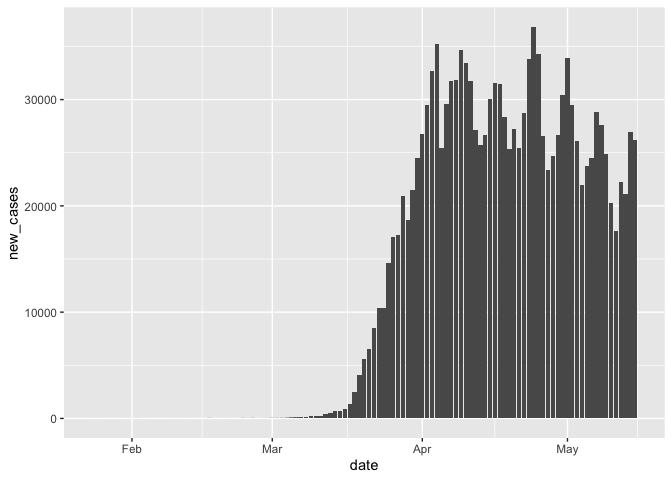
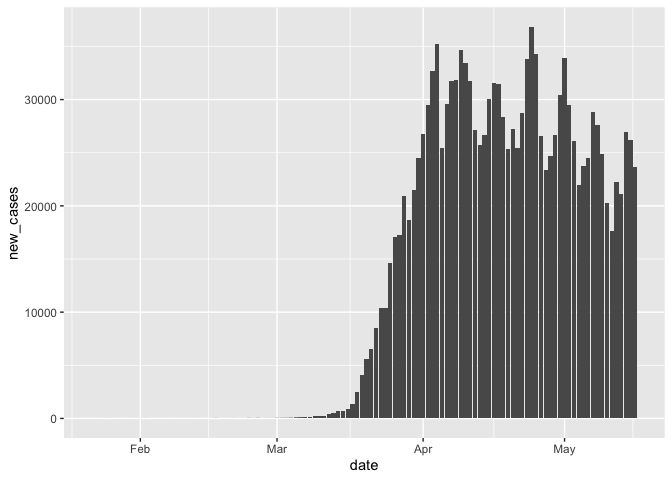
update

diff --git a/nyt-covid.md b/nyt-covid.md
@@ -1,7 +1,7 @@
 NYT Covid cases
 ================
 Your name
-2020-05-16
+2020-05-17
 
   - [States](#states)
       - [Glimpse and summary](#glimpse-and-summary)
@@ -54,17 +54,7 @@ file_population <- "data/populations.csv"
 #   )
 counties <-
   url_counties %>% 
-  read_csv(
-    col_types =
-      cols(
-        date = col_date(format = ""),
-        county = col_character(),
-        state = col_character(),
-        fips = col_integer(),
-        cases = col_double(),
-        deaths = col_double()
-      )
-  )
+  read_csv()
 
 # col_types = 
 #   cols(
@@ -76,16 +66,7 @@ counties <-
 #   )
 states <-
   url_states %>% 
-  read_csv(
-    col_types = 
-      cols(
-        date = col_date(format = ""),
-        state = col_character(),
-        fips = col_integer(),
-        cases = col_double(),
-        deaths = col_double()
-      )
-  )
+  read_csv()
 
 # col_types =
 #   cols(
@@ -95,14 +76,7 @@ states <-
 #   )
 population <-
   file_population %>% 
-  read_csv(
-    col_types =
-      cols(
-        region = col_character(),
-        fips = col_integer(),
-        population = col_double()
-      )
-  )
+  read_csv()
 ```
 
 ## States
@@ -159,11 +133,11 @@ states %>%
     ## # A tibble: 5 x 2
     ##   state                        n
     ##   <chr>                    <int>
-    ## 1 District of Columbia        70
-    ## 2 Puerto Rico                 64
-    ## 3 Virgin Islands              63
-    ## 4 Guam                        62
-    ## 5 Northern Mariana Islands    49
+    ## 1 District of Columbia        71
+    ## 2 Puerto Rico                 65
+    ## 3 Virgin Islands              64
+    ## 4 Guam                        63
+    ## 5 Northern Mariana Islands    50
 
 ### Missing values
 
@@ -190,20 +164,20 @@ states %>%
   filter(lead(cases, order_by = date) < cases)
 ```
 
-    ## # A tibble: 2,112 x 5
-    ##    date       state       fips cases deaths
-    ##    <date>     <chr>      <int> <dbl>  <dbl>
-    ##  1 2020-01-26 California     6     2      0
-    ##  2 2020-01-27 California     6     2      0
-    ##  3 2020-01-28 California     6     2      0
-    ##  4 2020-01-29 California     6     2      0
-    ##  5 2020-01-30 Illinois      17     2      0
-    ##  6 2020-01-31 California     6     3      0
-    ##  7 2020-01-31 Illinois      17     2      0
-    ##  8 2020-02-01 California     6     3      0
-    ##  9 2020-02-01 Illinois      17     2      0
-    ## 10 2020-02-02 California     6     6      0
-    ## # … with 2,102 more rows
+    ## # A tibble: 2,147 x 5
+    ##    date       state      fips  cases deaths
+    ##    <date>     <chr>      <chr> <dbl>  <dbl>
+    ##  1 2020-01-26 California 06        2      0
+    ##  2 2020-01-27 California 06        2      0
+    ##  3 2020-01-28 California 06        2      0
+    ##  4 2020-01-29 California 06        2      0
+    ##  5 2020-01-30 Illinois   17        2      0
+    ##  6 2020-01-31 California 06        3      0
+    ##  7 2020-01-31 Illinois   17        2      0
+    ##  8 2020-02-01 California 06        3      0
+    ##  9 2020-02-01 Illinois   17        2      0
+    ## 10 2020-02-02 California 06        6      0
+    ## # … with 2,137 more rows
 
 ``` r
 states %>% 
@@ -213,20 +187,20 @@ states %>%
   filter(lead(deaths, order_by = date) < deaths)
 ```
 
-    ## # A tibble: 1,596 x 5
-    ##    date       state       fips cases deaths
-    ##    <date>     <chr>      <int> <dbl>  <dbl>
-    ##  1 2020-02-29 Washington    53    10      1
-    ##  2 2020-03-01 Washington    53    17      3
-    ##  3 2020-03-02 Washington    53    23      6
-    ##  4 2020-03-03 Washington    53    32     10
-    ##  5 2020-03-04 California     6    55      1
-    ##  6 2020-03-04 Washington    53    47     11
-    ##  7 2020-03-05 California     6    67      1
-    ##  8 2020-03-05 Washington    53    75     11
-    ##  9 2020-03-06 California     6    81      1
-    ## 10 2020-03-06 Florida       12     7      2
-    ## # … with 1,586 more rows
+    ## # A tibble: 1,625 x 5
+    ##    date       state      fips  cases deaths
+    ##    <date>     <chr>      <chr> <dbl>  <dbl>
+    ##  1 2020-02-29 Washington 53       10      1
+    ##  2 2020-03-01 Washington 53       17      3
+    ##  3 2020-03-02 Washington 53       23      6
+    ##  4 2020-03-03 Washington 53       32     10
+    ##  5 2020-03-04 California 06       55      1
+    ##  6 2020-03-04 Washington 53       47     11
+    ##  7 2020-03-05 California 06       67      1
+    ##  8 2020-03-05 Washington 53       75     11
+    ##  9 2020-03-06 California 06       81      1
+    ## 10 2020-03-06 Florida    12        7      2
+    ## # … with 1,615 more rows
 
 ## Counties
 
@@ -236,12 +210,12 @@ states %>%
 glimpse(counties)
 ```
 
-    ## Rows: 147,245
+    ## Rows: 150,169
     ## Columns: 6
     ## $ date   <date> 2020-01-21, 2020-01-22, 2020-01-23, 2020-01-24, 2020-01-24, 2…
     ## $ county <chr> "Snohomish", "Snohomish", "Snohomish", "Cook", "Snohomish", "O…
     ## $ state  <chr> "Washington", "Washington", "Washington", "Illinois", "Washing…
-    ## $ fips   <int> 53061, 53061, 53061, 17031, 53061, 6059, 17031, 53061, 4013, 6…
+    ## $ fips   <chr> "53061", "53061", "53061", "17031", "53061", "06059", "17031",…
     ## $ cases  <dbl> 1, 1, 1, 1, 1, 1, 1, 1, 1, 1, 1, 1, 1, 1, 1, 1, 1, 1, 1, 1, 1,…
     ## $ deaths <dbl> 0, 0, 0, 0, 0, 0, 0, 0, 0, 0, 0, 0, 0, 0, 0, 0, 0, 0, 0, 0, 0,…
 
@@ -249,22 +223,20 @@ glimpse(counties)
 summary(counties)
 ```
 
-    ##       date               county             state                fips      
-    ##  Min.   :2020-01-21   Length:147245      Length:147245      Min.   : 1001  
-    ##  1st Qu.:2020-04-06   Class :character   Class :character   1st Qu.:18053  
-    ##  Median :2020-04-20   Mode  :character   Mode  :character   Median :29033  
-    ##  Mean   :2020-04-18                                         Mean   :29957  
-    ##  3rd Qu.:2020-05-03                                         3rd Qu.:45027  
-    ##  Max.   :2020-05-15                                         Max.   :56043  
-    ##                                                             NA's   :1657   
+    ##       date               county             state               fips          
+    ##  Min.   :2020-01-21   Length:150169      Length:150169      Length:150169     
+    ##  1st Qu.:2020-04-06   Class :character   Class :character   Class :character  
+    ##  Median :2020-04-20   Mode  :character   Mode  :character   Mode  :character  
+    ##  Mean   :2020-04-19                                                           
+    ##  3rd Qu.:2020-05-04                                                           
+    ##  Max.   :2020-05-16                                                           
     ##      cases              deaths        
     ##  Min.   :     0.0   Min.   :    0.00  
     ##  1st Qu.:     3.0   1st Qu.:    0.00  
-    ##  Median :    13.0   Median :    0.00  
-    ##  Mean   :   271.4   Mean   :   14.62  
-    ##  3rd Qu.:    61.0   3rd Qu.:    2.00  
-    ##  Max.   :195472.0   Max.   :19972.00  
-    ## 
+    ##  Median :    14.0   Median :    0.00  
+    ##  Mean   :   275.9   Mean   :   14.93  
+    ##  3rd Qu.:    63.0   3rd Qu.:    2.00  
+    ##  Max.   :196481.0   Max.   :20071.00
 
 ### Check counties and states
 
@@ -272,7 +244,7 @@ summary(counties)
 n_distinct(counties$county)
 ```
 
-    ## [1] 1726
+    ## [1] 1727
 
 ``` r
 n_distinct(counties$state)
@@ -323,7 +295,7 @@ counties %>%
     ## # A tibble: 1 x 6
     ##    date county state  fips cases deaths
     ##   <int>  <int> <int> <int> <int>  <int>
-    ## 1     0      0     0  1657     0      0
+    ## 1     0      0     0  1685     0      0
 
 ``` r
 # TODO: investigate further
@@ -355,7 +327,6 @@ us_daily <-
 
 us_daily %>% 
   drop_na(new_cases) %>% 
-  filter(new_cases > 0) %>% # TODO: filter to just March through May
   ggplot(aes(date, new_cases)) +
   geom_col() 
 ```
@@ -387,26 +358,8 @@ states_cumulative %>%
 ### Which state has the most cases per capita?
 
 ``` r
-states_cumulative %>% 
-  left_join(population, by = "fips") # %>% 
-```
-
-    ## # A tibble: 55 x 5
-    ##     fips state                  cases region               population
-    ##    <int> <chr>                  <dbl> <chr>                     <dbl>
-    ##  1     1 Alabama               271116 Alabama                 4903185
-    ##  2     2 Alaska                 14704 Alaska                   731545
-    ##  3     4 Arizona               292111 Arizona                 7278717
-    ##  4     5 Arkansas              114726 Arkansas                3017804
-    ##  5     6 California           1885915 California             39512223
-    ##  6     8 Colorado              560913 Colorado                5758736
-    ##  7     9 Connecticut           965972 Connecticut             3565287
-    ##  8    10 Delaware              160596 Delaware                 973764
-    ##  9    11 District of Columbia  161289 District of Columbia     705749
-    ## 10    12 Florida              1296507 Florida                21477737
-    ## # … with 45 more rows
-
-``` r
+# states_cumulative %>% 
+#   left_join(population, by = "fips") %>% 
   # filter(!is.na(population)) %>% 
   # mutate(
   #   cases_per_capita = population / cases,
@@ -425,20 +378,20 @@ states %>%
   ungroup() # %>% 
 ```
 
-    ## # A tibble: 4,084 x 6
-    ##    date       state       fips cases deaths new_cases
-    ##    <date>     <chr>      <int> <dbl>  <dbl>     <dbl>
-    ##  1 2020-01-21 Washington    53     1      0        NA
-    ##  2 2020-01-22 Washington    53     1      0         0
-    ##  3 2020-01-23 Washington    53     1      0         0
-    ##  4 2020-01-24 Illinois      17     1      0        NA
-    ##  5 2020-01-24 Washington    53     1      0         0
-    ##  6 2020-01-25 California     6     1      0        NA
-    ##  7 2020-01-25 Illinois      17     1      0         0
-    ##  8 2020-01-25 Washington    53     1      0         0
-    ##  9 2020-01-26 Arizona        4     1      0        NA
-    ## 10 2020-01-26 California     6     2      0         1
-    ## # … with 4,074 more rows
+    ## # A tibble: 4,139 x 6
+    ##    date       state      fips  cases deaths new_cases
+    ##    <date>     <chr>      <chr> <dbl>  <dbl>     <dbl>
+    ##  1 2020-01-21 Washington 53        1      0        NA
+    ##  2 2020-01-22 Washington 53        1      0         0
+    ##  3 2020-01-23 Washington 53        1      0         0
+    ##  4 2020-01-24 Illinois   17        1      0        NA
+    ##  5 2020-01-24 Washington 53        1      0         0
+    ##  6 2020-01-25 California 06        1      0        NA
+    ##  7 2020-01-25 Illinois   17        1      0         0
+    ##  8 2020-01-25 Washington 53        1      0         0
+    ##  9 2020-01-26 Arizona    04        1      0        NA
+    ## 10 2020-01-26 California 06        2      0         1
+    ## # … with 4,129 more rows
 
 ``` r
   # drop_na(new_cases) %>% 
@@ -469,23 +422,23 @@ counties_cumulative %>%
 ```
 
     ## # A tibble: 15 x 4
-    ##    county                     state          fips   cases
-    ##    <fct>                      <chr>         <int>   <dbl>
-    ##  1 Bergen, New Jersey         New Jersey    34003  588060
-    ##  2 Cook, Illinois             Illinois      17031 1329345
-    ##  3 Essex, New Jersey          New Jersey    34013  493091
-    ##  4 Hudson, New Jersey         New Jersey    34017  518008
-    ##  5 Los Angeles, California    California     6037  829987
-    ##  6 Miami-Dade, Florida        Florida       12086  453063
-    ##  7 Middlesex, Massachusetts   Massachusetts 25017  481463
-    ##  8 Nassau, New York           New York      36059 1373748
-    ##  9 Philadelphia, Pennsylvania Pennsylvania  42101  501162
-    ## 10 Rockland, New York         New York      36087  446773
-    ## 11 Suffolk, Massachusetts     Massachusetts 25025  434166
-    ## 12 Suffolk, New York          New York      36103 1261594
-    ## 13 Union, New Jersey          New Jersey    34039  442661
-    ## 14 Wayne, Michigan            Michigan      26163  645806
-    ## 15 Westchester, New York      New York      36119 1156763
+    ##    county                     state         fips    cases
+    ##    <fct>                      <chr>         <chr>   <dbl>
+    ##  1 Bergen, New Jersey         New Jersey    34003  605306
+    ##  2 Cook, Illinois             Illinois      17031 1390557
+    ##  3 Essex, New Jersey          New Jersey    34013  509123
+    ##  4 Hudson, New Jersey         New Jersey    34017  535334
+    ##  5 Los Angeles, California    California    06037  867290
+    ##  6 Miami-Dade, Florida        Florida       12086  468428
+    ##  7 Middlesex, Massachusetts   Massachusetts 25017  500346
+    ##  8 Nassau, New York           New York      36059 1412781
+    ##  9 Philadelphia, Pennsylvania Pennsylvania  42101  520768
+    ## 10 Rockland, New York         New York      36087  459461
+    ## 11 Suffolk, Massachusetts     Massachusetts 25025  450512
+    ## 12 Suffolk, New York          New York      36103 1299536
+    ## 13 Union, New Jersey          New Jersey    34039  457230
+    ## 14 Wayne, Michigan            Michigan      26163  664822
+    ## 15 Westchester, New York      New York      36119 1188859
 
 ``` r
 # TODO: plot cases for top N counties
